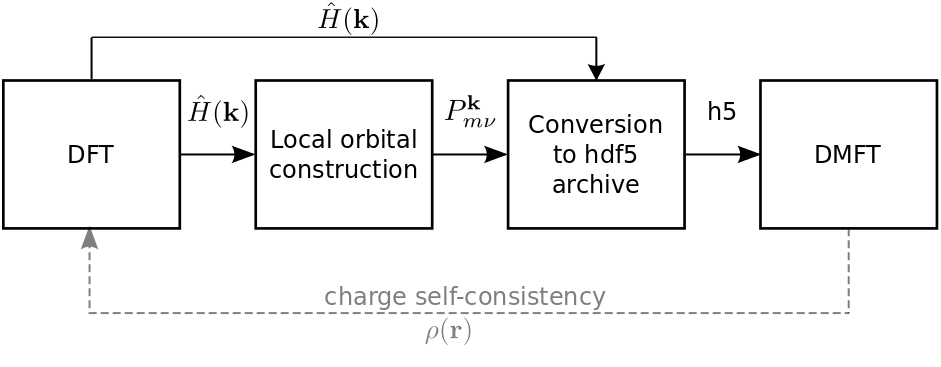
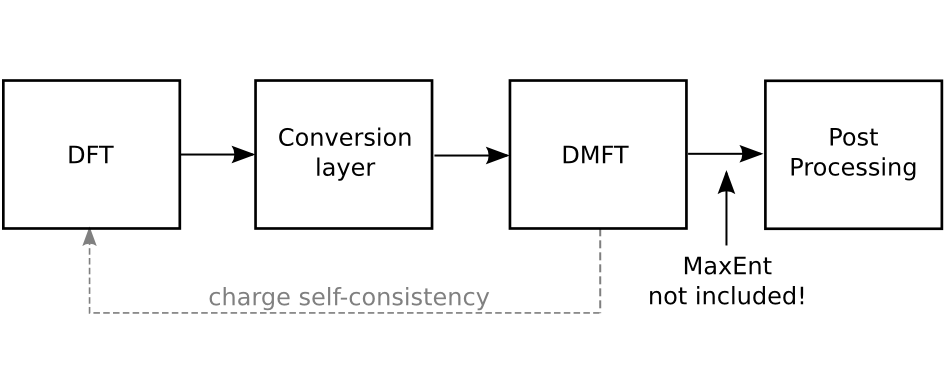
new fig for structure part

diff --git a/doc/basicnotions/structure.rst b/doc/basicnotions/structure.rst
@@ -23,7 +23,7 @@ python-based modules with the DFT output. Naturally, this layer
 depends on the DFT package at hand. At the moment, there is an
 interface to the Wien2k band structure package, and a very light 
 interface that can be used in a more general setup. Note that this
-light interface layer **dows not** allow full charge self-consistent
+light interface layer **does not** allow full charge self-consistent
 calculations. 
 
 Wien2k interface
